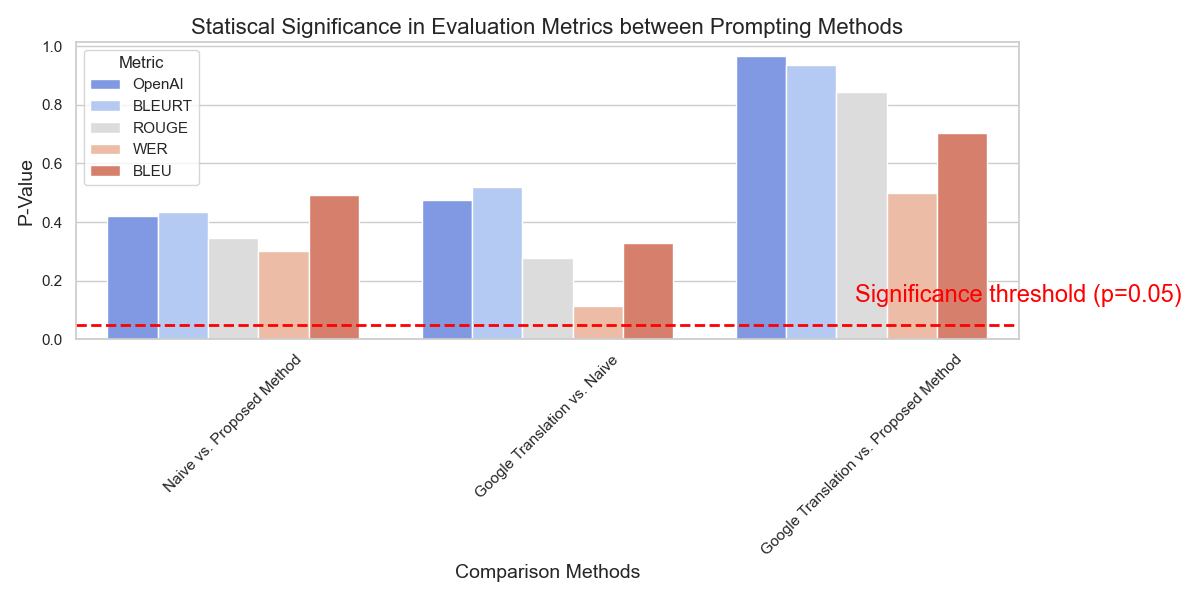
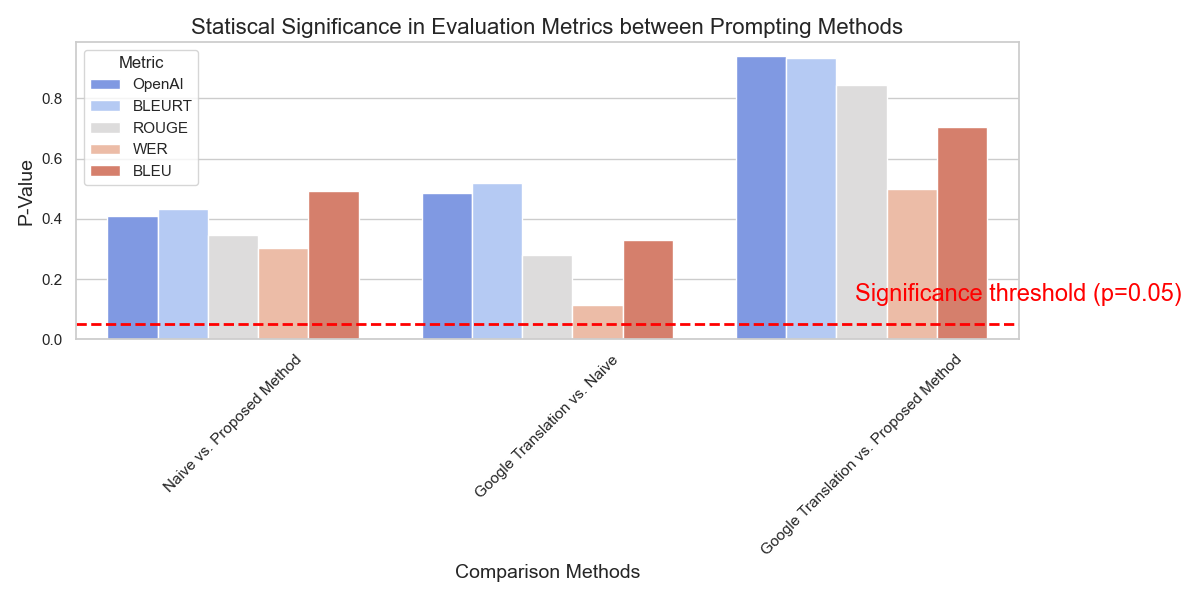
added korean wer data

diff --git a/spanish_evaluation.py b/spanish_evaluation.py
@@ -17,7 +17,7 @@ from scipy.spatial.distance import cosine
 import tensorflow as tf
 from bleurt import score
 
-openai.api_key = 'openai-key'
+openai.api_key = ''
 file_path = './data/csv/spanish_idioms_dataset.csv'  # Replace 'your_file.csv' with the path to your CSV file
 data = pd.read_csv(file_path)
 
@@ -265,7 +265,7 @@ plt.xticks(rotation=45)  # Rotate x-labels for better readability
 plt.tight_layout()
 plt.savefig(f'./output/stats/spanish_p_values.png')
 # Final graphs for korean and spanish
-metric_files =["./data/csv/kr_bleurt.csv", "./data/csv/kr_rouge.csv"]
+metric_files =["./data/csv/kr_bleurt.csv", "./data/csv/kr_rouge.csv", "./data/csv/kr_wer.csv"]
 korean_metric_score_lst = []
 # each evaluation method has four lists that corresponds to the prompting method 
 
@@ -274,8 +274,7 @@ for fp in metric_files:
         korean_metric_score_lst.append(pd.read_csv(file))
         
         
-metric_score_lst= {"BLEURT":all_google_bleurt_scores,"ROUGE":all_rouge_scores}
-# need to add "WER":all_wer_scores
+metric_score_lst= {"BLEURT":all_google_bleurt_scores,"ROUGE":all_rouge_scores, "WER":all_wer_scores}
 keys = list(metric_score_lst.keys())
 for i in range(len(list(metric_score_lst.values()))):
     
